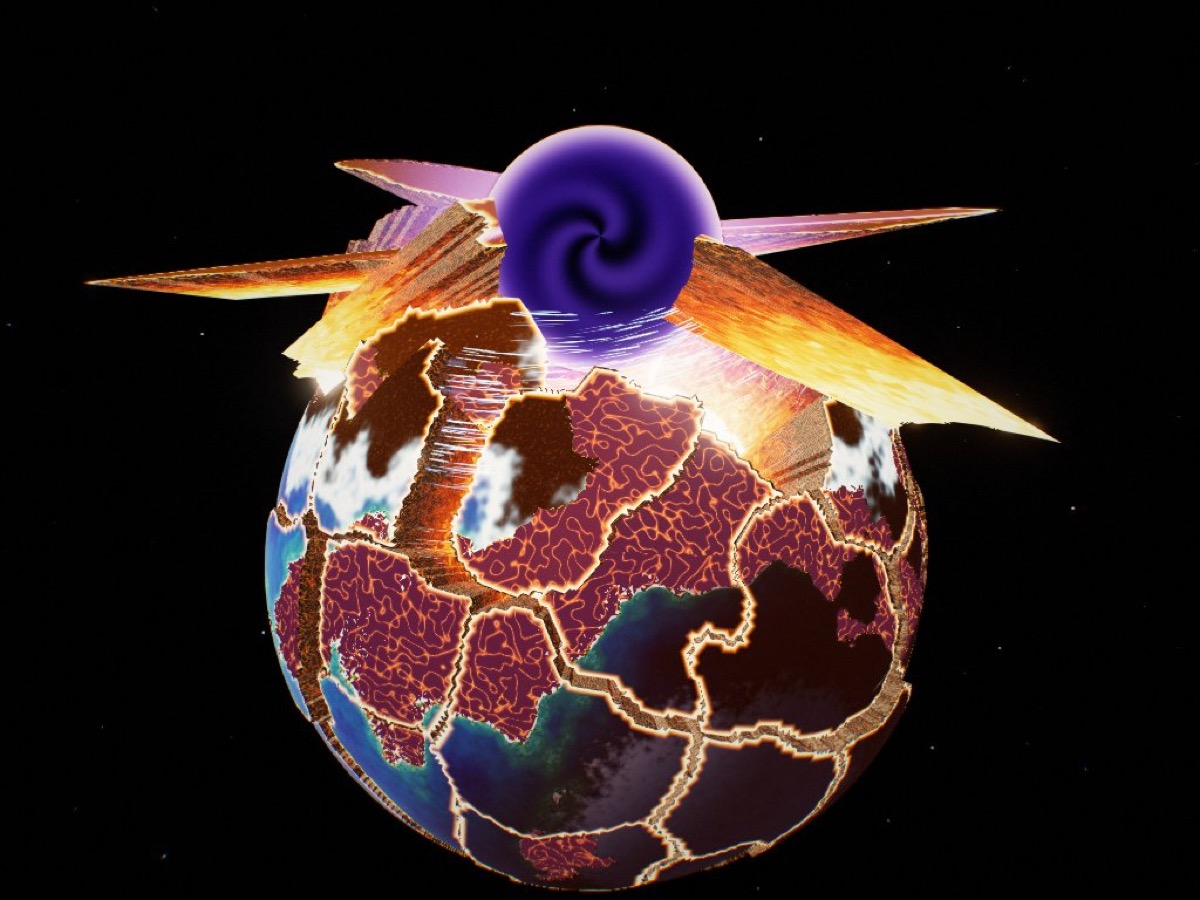
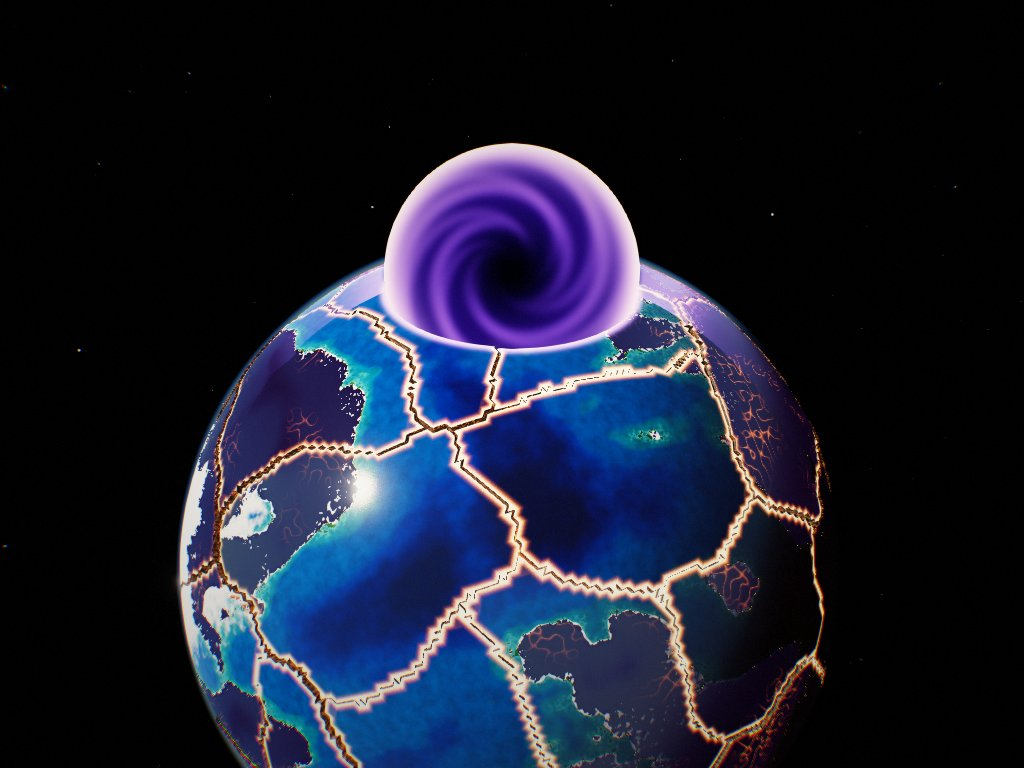
Phase 3 WP-D: README and docs/screens refreshed (terrain at all tiers, the wound, the finale's chunky shards, the maelstrom and the black hole)

diff --git a/README.md b/README.md
@@ -23,6 +23,9 @@ island-scale second phase are this project's own spin on it.
 | ![The island: its coast is the edge of the map](docs/screens/phase2-coast.jpg) | ![The snowy range walls off one stretch of the island](docs/screens/phase2-mountains.jpg) |
 | ![A rival hole (Rusty) breaks out and eats the same country](docs/screens/phase2-rival.jpg) | ![Rubble spills over the rim when a building crumbles](docs/screens/phase2-rubble.jpg) |
 | ![Too weak: a heavy-lift chopper hangs the Void Lid over the hole](docs/screens/phase2-seal.jpg) | ![The minimap: coast, range, roads, settlements, the next target ringed](docs/screens/phase2-minimap.jpg) |
+| ![Phase 3, a 40 km hole: farmland mosaic, relief, rivers and discrete cities on a seed's coast](docs/screens/phase3-scale-start-40km.jpg) | ![150 km: a landmass read as biomes, drainage and a ragged coast](docs/screens/phase3-scale-150km.jpg) |
+| ![430 km: hills, ranges and a missile field on the continent](docs/screens/phase3-scale-430km.jpg) | ![1,200 km: the whole planet in the frame](docs/screens/phase3-scale-1170km.jpg) |
+| ![Eaten land: a round crumbling edge, strata cliff, molten rim, basalt floor](docs/screens/phase3-wound-t1.jpg) | |
 | ![Ascension: the island cracks to its coast as the capital falls](docs/screens/phase3-ascend-cracks.jpg) | ![Ascension: the pull-out, the limb, the stars and the Moon](docs/screens/phase3-ascend-pullout.jpg) |
 | ![Ascension: the reveal, the wound pulsing beside a coast](docs/screens/phase3-ascend-reveal.jpg) | ![Ascension: the plunge back to the hole, control returns](docs/screens/phase3-ascend-arrival.jpg) |
 | ![Adversity: a carrier group's cruise-missile salvo, one ring per missile](docs/screens/phase3-threat-fleet-salvo.jpg) | ![Adversity: a tsunami front racing across the sea](docs/screens/phase3-threat-tsunami.jpg) |
@@ -30,7 +33,7 @@ island-scale second phase are this project's own spin on it.
 | ![The Aegis: six platforms and the closing lid ring](docs/screens/phase3-threat-aegis-lid.jpg) | ![The Last Resort: the planet-cracker charging over the limb, fed by three power stations](docs/screens/phase3-threat-cracker-charge.jpg) |
 | ![The Moon cracks as it falls over the horizon](docs/screens/phase3-moon-fall.jpg) | ![The Moon breaks at the Roche limit](docs/screens/phase3-moon-break.jpg) |
 | ![Moon rocks rain down, each a ring to dive into](docs/screens/phase3-moon-rain.jpg) | ![Finale: fault lines ignite as the hole becomes a sphere](docs/screens/phase3-finale-faults.jpg) |
-| ![Finale: the globe splits, the mantle glows](docs/screens/phase3-finale-rupture.jpg) | ![Finale: chunks stretched toward the hole, the core exposed](docs/screens/phase3-finale-shred.jpg) |
+| ![Finale: the crust opens along its faults over a maelstrom hole](docs/screens/phase3-finale-rupture.jpg) | ![Finale: chunky shards tumble and stretch toward the hole, the mantle glowing](docs/screens/phase3-finale-shred.jpg) |
 | ![Finale: the accretion disk builds as the core falls in](docs/screens/phase3-finale-disk.jpg) | ![Finale: the core spaghettified into a thread](docs/screens/phase3-finale-core.jpg) |
 | ![Finale: the black hole, lensed disk and photon ring](docs/screens/phase3-finale-blackhole.jpg) | |
 
